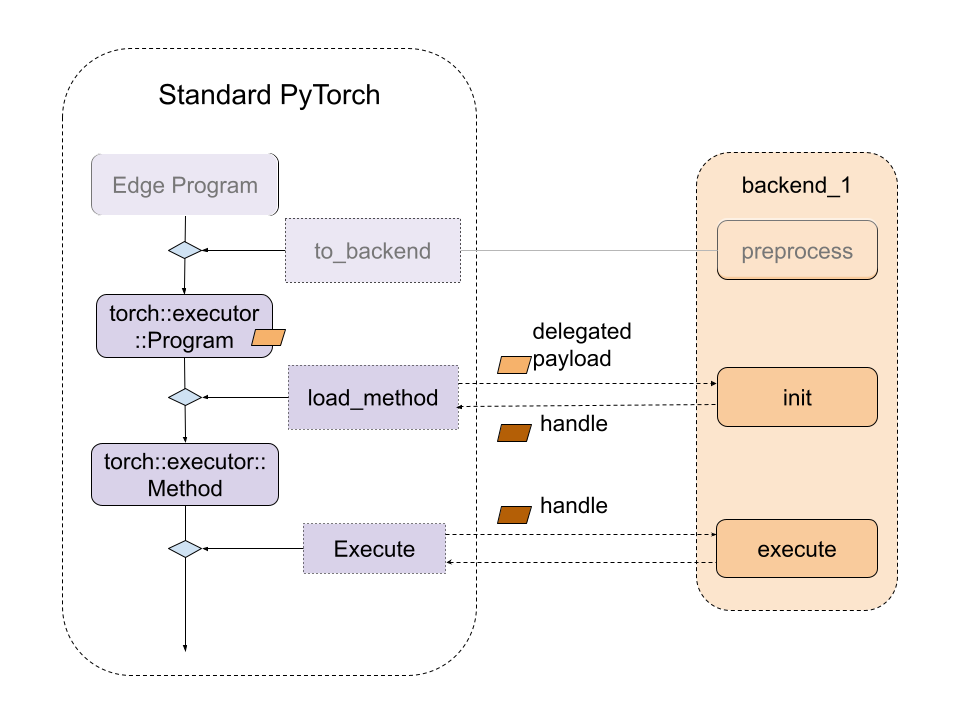
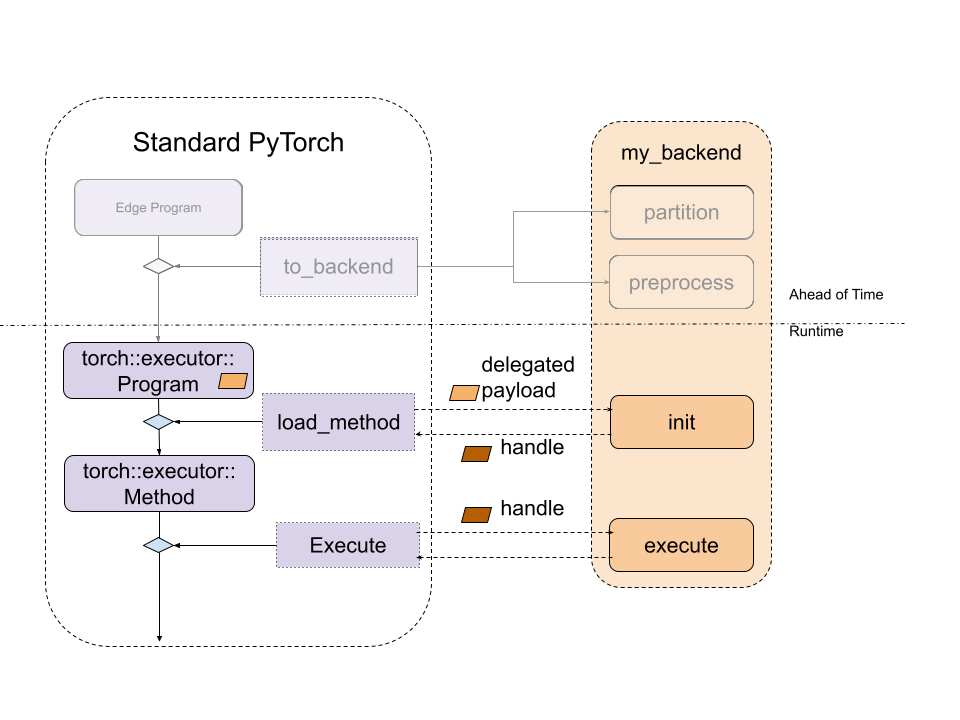
update delegate doc (#956)
Summary: Pull Request resolved: https://github.com/pytorch/executorch/pull/956

Reviewed By: mcr229

Differential Revision: D50333307

fbshipit-source-id: fc196fcf7b704304044daf990fb2287b5bb9117a

diff --git a/docs/source/compiler-delegate-and-partitioner.md b/docs/source/compiler-delegate-and-partitioner.md
@@ -55,7 +55,7 @@ A delegate backend implementation is composed of:
 
 The diagram looks like following
 
-<img src="./_static/img/backend_interface.png" alt="drawing" style="width:500px;"/>
+<img src="./_static/img/backend_interface.png" alt="drawing" style="width:600px;"/>
 
 **Figure 1.** A high level of entry points for backend interfaces, including both ahead-of-time and runtime.
 
@@ -63,8 +63,7 @@ The diagram looks like following
 
 There are mainly two Ahead-of-Time entry point for backend to implement: `partition` and `preprocess`.
 
-`partitioner` is an algorithm implemented by the backend to tag the nodes to be lowered to the backend. `to_backend` API
-will apply the partition algorithm and lowered each subgraph, consists of connected tagged nodes, to the backend. Every subgraph
+`partitioner` is an algorithm implemented by the backend to tag the nodes to be lowered to the backend. `to_backend` API will apply the partition algorithm and lower each subgraph, which consists of connected tagged nodes, to the targeted backend. Every subgraph
 will be sent to the `preprocess` part provided by the backend to compiled as a binary blob.
 
 During partition, the `exported_program` is not allowed to mutate the program, and it's supposed to apply tag to each node. The
@@ -135,7 +134,7 @@ virtual void destroy(__ET_UNUSED DelegateHandle* handle);
 
 The diagram looks like following
 
-<img src="./_static/img/backend_interface_runtime.png" alt="drawing" style="width:500px;"/>
+<img src="./_static/img/backend_interface_runtime.png" alt="drawing" style="width:600px;"/>
 
 **Figure 3.** The relationship between standard ExecuTorch Runtime and backend entry point.
 
@@ -155,13 +154,22 @@ static auto success_with_compiler = register_backend(backend);
 ```
 
 
-## Debugging model execution within delegate
+## SDK Integration: Debuggability
 
 Providing consistent debugging experience, be it for runtime failures or performance profiling, is important. ExecuTorch employs native SDK (Software Development Kit) for this purpose, which enables correlating program instructions to original PyTorch code, via debug handles. You can read more about it [here](./sdk-etrecord).
 
-Delegated program or subgraphs are opaque to ExecuTorch runtime and appear as a special `call_delegate` instruction, which asks corresponding delegate to handle the execution of the subgraph or program. Due to the opaque nature of delgates, native SDK does not have visibility into delegated program. Thus the debugging, functional or performance, experiences of delegated execution suffers significantly as compared to it's non-delegated counterpart.
+Delegated program or subgraphs are opaque to ExecuTorch runtime and appear as a special `call_delegate` instruction, which asks corresponding backend to handle the execution of the subgraph or program. Due to the opaque nature of backend delgates, native SDK does not have visibility into delegated program. Thus the debugging, functional or performance, experiences of delegated execution suffers significantly as compared to it's non-delegated counterpart.
 
-In order to provide consistent debugging experience to users, regardless of the use of delegation for a model, SDK provides an interface to correlate delegated (sub)graph to original (sub)graph. The SDK does so via debug handles map which allows delegates to generate internal handles that can be associated with the original (sub)graph consumed by the delegate. Then at runtime, delegates can report error or profiling information using the internal handle, which will be mapped to original (sub)graph using the debug handle map. For more information, please refer to [SDK delegate integration](./sdk-delegate-integration).
+In order to provide consistent debugging experience to users, regardless of the use of delegation for a model, SDK provides an interface to correlate delegated (sub)graph to original (sub)graph. The SDK does so via debug handles map which allows delegates to generate internal handles that can be associated with the original (sub)graph consumed by the delegate. Then at runtime, backend developer can report error or profiling information using the internal handle, which will be mapped to original (sub)graph using the debug handle map. For more information, please refer to [SDK delegate integration](./sdk-delegate-integration).
+
+By leveraging the debug identifier, backend developer can embed the debug as part of the delegated blob
+
+<img src="./_static/img/backend_debug_handle.png" alt="drawing" style="width:600px;"/>
+
+In this way, during execute stage, with the debug identifier, backend developer can associate the failed instruction inside the delegate
+back to the exact line of PyThon code.
+
+<img src="./_static/img/backend_debug_handle_example.png" alt="drawing" style="width:700px;"/>
 
 ## Common Questions
 
